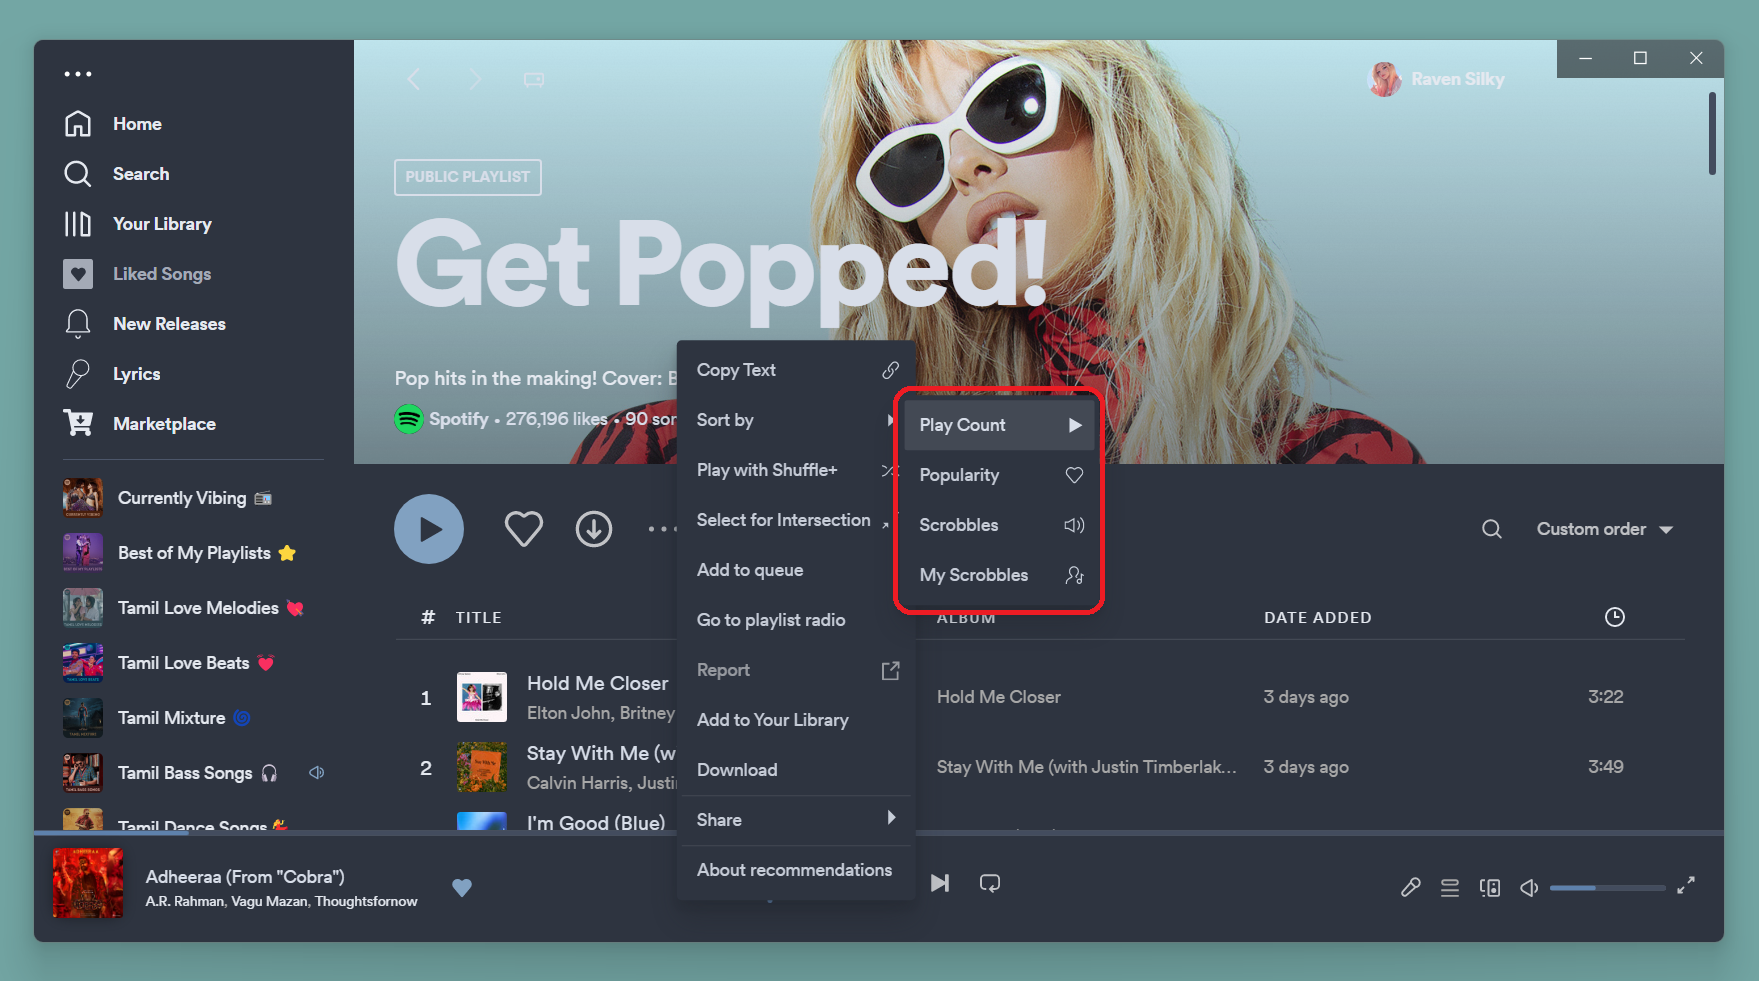
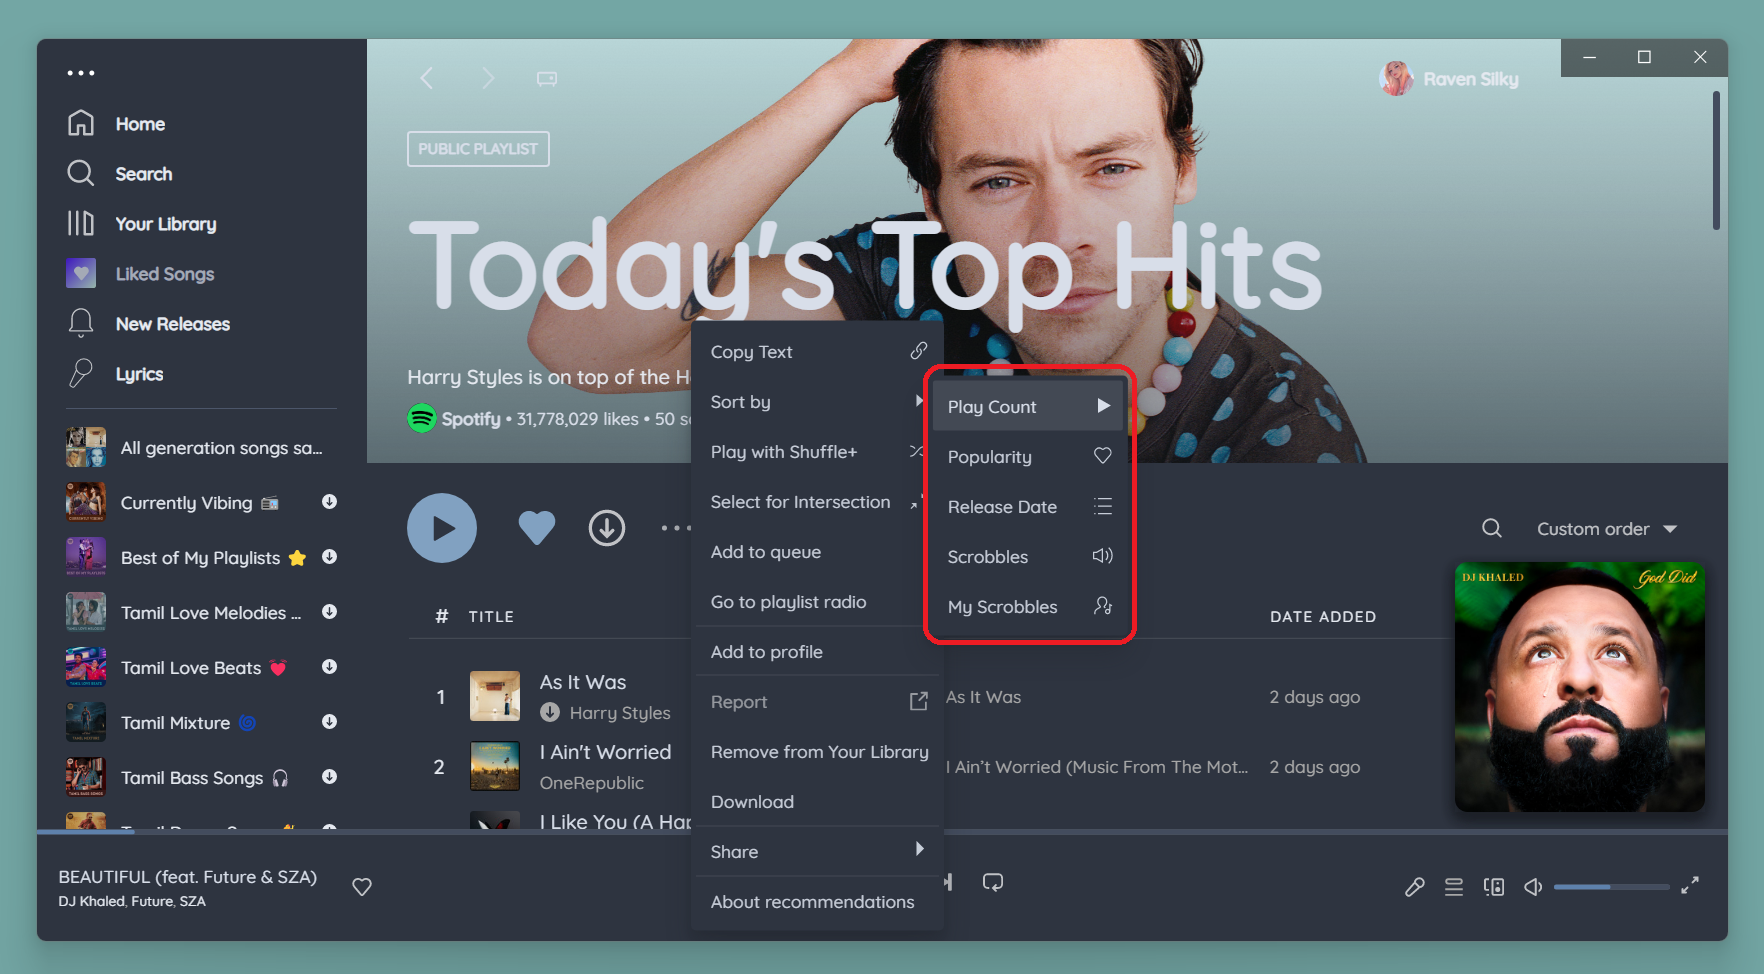
2.4

diff --git a/Sort-by-Play-count/sortByPlayCount.js b/Sort-by-Play-count/sortByPlayCount.js
@@ -3,7 +3,7 @@
 // NAME: Sort By Play Count
 // AUTHOR: Tetrax-10
 // DESCRIPTION: Sorts Songs by Play Count, Popularity, Global Scrobbles, Personal Scrobbles Using Spotify and Last.FM
-// Version: 2.3
+// Version: 2.4
 
 /// <reference path="../globals.d.ts" />
 
@@ -438,6 +438,17 @@ async function initSortByPlay() {
         return false;
     }
 
+    // Release date
+    function shouldAddSpotifyReleaseDate(uri) {
+        let uriObj = Spicetify.URI.fromString(uri[0]);
+        switch (uriObj.type) {
+            case Type.PLAYLIST:
+            case Type.PLAYLIST_V2:
+                return true;
+        }
+        return false;
+    }
+
     // Scrobbles
     function shouldAddLastFmScrobbles(uri) {
         let uriObj = Spicetify.URI.fromString(uri[0]);
@@ -520,6 +531,18 @@ async function initSortByPlay() {
         "heart"
     );
 
+    let releaseDateItemSpotify = new Spicetify.ContextMenu.Item(
+        "Release Date",
+        async (rawUri) => {
+            let uriInfo = rawUri[0].split(":");
+            let type = uriInfo[1];
+            let uri = uriInfo[2];
+            await fetchAndPlay(type, uri, "releaseDate", "spotify");
+        },
+        shouldAddSpotifyReleaseDate,
+        "list-view"
+    );
+
     let scrobblesItemLastFM = new Spicetify.ContextMenu.Item(
         "Scrobbles",
         async (rawUri) => {
@@ -561,16 +584,16 @@ async function initSortByPlay() {
         "subtitles"
     );
 
-    new Spicetify.ContextMenu.SubMenu("Sort by", [playCountItemSpotify, popularityItemSpotify, scrobblesItemLastFM, personalScrobblesItemLastFM, playCountItemLastFM], shouldAddContextMenu, false).register();
+    new Spicetify.ContextMenu.SubMenu("Sort by", [playCountItemSpotify, popularityItemSpotify, releaseDateItemSpotify, scrobblesItemLastFM, personalScrobblesItemLastFM, playCountItemLastFM], shouldAddContextMenu, false).register();
 
     async function fetchPlaylistTracksSpotify(uri, mode) {
-        let playlistRes = await Spicetify.Platform.PlaylistAPI.getContents(`spotify:playlist:${uri}`);
+        let playlistRes = await Spicetify.CosmosAsync.get(`sp://core-playlist/v1/playlist/spotify:playlist:${uri}/rows`);
 
         let trackHistory = [];
         let allTracks = [];
         let filteredTrack = [];
 
-        let totalTrackCount = playlistRes.items.length ? playlistRes.items.length : 0;
+        let totalTrackCount = playlistRes.rows.length ? playlistRes.rows.length : 0;
 
         if (totalTrackCount == 0) {
             Spicetify.showNotification(`${mode == "playcount" ? "Play Count" : mode} data not available! Try other options`);
@@ -583,22 +606,28 @@ async function initSortByPlay() {
             mode = "playcount";
         }
 
-        for (let playlistTrack of playlistRes.items) {
-            currentTrack++;
-            Spicetify.showNotification(`${currentTrack} / ${totalTrackCount} Songs`);
-            if (playlistTrack.type == "track" && playlistTrack.isPlayable && !playlistTrack.isLocal && !trackHistory.includes(playlistTrack.album.uri)) {
-                let albumRes = await Spicetify.CosmosAsync.get(`wg://album/v1/album-app/album/${playlistTrack.album.uri.split(":")[2]}/desktop`);
-                for (let tracks of albumRes.discs) {
-                    for (let track of tracks.tracks) {
-                        allTracks.push(track);
-                        trackHistory.push(playlistTrack.album.uri);
+        for (let playlistTrack of playlistRes.rows) {
+            if (mode != "popularity") {
+                currentTrack++;
+                Spicetify.showNotification(`${currentTrack} / ${totalTrackCount} Songs`);
+                if (playlistTrack.link.split(":")[1] == "track" && playlistTrack.playable && !playlistTrack.isLocal && !trackHistory.includes(playlistTrack.album.link)) {
+                    let albumRes = await Spicetify.CosmosAsync.get(`wg://album/v1/album-app/album/${playlistTrack.album.link.split(":")[2]}/desktop`);
+                    for (let tracks of albumRes.discs) {
+                        for (let track of tracks.tracks) {
+                            allTracks.push(track);
+                            trackHistory.push(playlistTrack.album.link);
+                        }
                     }
                 }
-            }
 
-            for (let track of allTracks) {
-                if (playlistTrack.uri == track.uri && track[mode]) {
-                    filteredTrack.push({ playCount: track.playcount, popularity: track.popularity, link: track.uri, name: track.name, artist: track.artists[0].name });
+                for (let track of allTracks) {
+                    if (playlistTrack.link == track.uri && track[mode]) {
+                        filteredTrack.push({ playCount: track.playcount, popularity: track.popularity, link: track.uri, name: track.name, artist: track.artists[0].name });
+                    }
+                }
+            } else {
+                if (playlistTrack.link.split(":")[1] == "track" && !playlistTrack.isLocal && playlistTrack.playable && playlistTrack.popularity) {
+                    filteredTrack.push({ popularity: playlistTrack.popularity, link: playlistTrack.link, name: playlistTrack.name, artist: playlistTrack.artists[0].name });
                 }
             }
         }
@@ -609,6 +638,44 @@ async function initSortByPlay() {
         }
 
         return filteredTrack;
+    }
+
+    async function fetchPlaylistTracksSpotifyAPI(uri) {
+        let playlistRes = await Spicetify.CosmosAsync.get(`sp://core-playlist/v1/playlist/spotify:playlist:${uri}/rows`);
+
+        let idString = "";
+        let count = 0;
+        for (let track of playlistRes.rows) {
+            let info = track.link.split(":");
+            if (track.playable && !track.isLocal && info[1] == "track") {
+                if (count) {
+                    idString += ",";
+                }
+                idString += info[2];
+                count++;
+                if (count == 50) {
+                    idString += "|";
+                    count = 0;
+                }
+            }
+        }
+
+        let requestArray = idString ? idString.split("|") : [];
+
+        let resRawArray = [];
+
+        for (let apiString of requestArray) {
+            if (apiString.length) {
+                let rawRes = await Spicetify.CosmosAsync.get(`https://api.spotify.com/v1/tracks?ids=${apiString}`);
+                for (let track of rawRes.tracks) {
+                    if (track.album.release_date) {
+                        resRawArray.push({ releaseDate: track.album.release_date, link: track.uri, name: track.name, artist: track.artists[0].name });
+                    }
+                }
+            }
+        }
+
+        return resRawArray;
     }
 
     let artistFetchTypeCount = { album: 0, single: 0 };
@@ -699,7 +766,6 @@ async function initSortByPlay() {
     }
 
     async function fetchArtistLikedTracksSpotify(uri, mode) {
-        // go here
         let artistRes = await Spicetify.CosmosAsync.get(`sp://core-collection/unstable/@/list/tracks/artist/${uri}?responseFormat=protobufJson`);
 
         let trackHistory = [];
@@ -720,22 +786,30 @@ async function initSortByPlay() {
         }
 
         for (let artistTrack of artistRes.item) {
-            currentTrack++;
-            Spicetify.showNotification(`${currentTrack} / ${totalTrackCount} Songs`);
-            let artistTrackMetaData = artistTrack.trackMetadata;
-            if (artistTrackMetaData.playable && !artistTrackMetaData.isLocal && !trackHistory.includes(artistTrackMetaData.album.link)) {
-                let albumRes = await Spicetify.CosmosAsync.get(`wg://album/v1/album-app/album/${artistTrackMetaData.album.link.split(":")[2]}/desktop`);
-                for (let tracks of albumRes.discs) {
-                    for (let track of tracks.tracks) {
-                        allTracks.push(track);
-                        trackHistory.push(artistTrackMetaData.album.link);
+            // goto
+            if (mode != "popularity") {
+                currentTrack++;
+                Spicetify.showNotification(`${currentTrack} / ${totalTrackCount} Songs`);
+                let artistTrackMetaData = artistTrack.trackMetadata;
+                if (artistTrackMetaData.playable && !artistTrackMetaData.isLocal && !trackHistory.includes(artistTrackMetaData.album.link)) {
+                    let albumRes = await Spicetify.CosmosAsync.get(`wg://album/v1/album-app/album/${artistTrackMetaData.album.link.split(":")[2]}/desktop`);
+                    for (let tracks of albumRes.discs) {
+                        for (let track of tracks.tracks) {
+                            allTracks.push(track);
+                            trackHistory.push(artistTrackMetaData.album.link);
+                        }
                     }
                 }
-            }
 
-            for (let track of allTracks) {
-                if (artistTrackMetaData.link == track.uri && track[mode]) {
-                    filteredTrack.push({ playCount: track.playcount, popularity: track.popularity, link: track.uri, name: track.name, artist: track.artists[0].name });
+                for (let track of allTracks) {
+                    if (artistTrackMetaData.link == track.uri && track[mode]) {
+                        filteredTrack.push({ playCount: track.playcount, popularity: track.popularity, link: track.uri, name: track.name, artist: track.artists[0].name });
+                    }
+                }
+            } else {
+                let playlistTrack = artistTrack.trackMetadata;
+                if (playlistTrack.link.split(":")[1] == "track" && !playlistTrack.isLocal && playlistTrack.playable && playlistTrack.popularity) {
+                    filteredTrack.push({ popularity: playlistTrack.popularity, link: playlistTrack.link, name: playlistTrack.name, artist: playlistTrack.artist[0].name });
                 }
             }
         }
@@ -922,13 +996,19 @@ async function initSortByPlay() {
     }
 
     async function sortByPlayForQueue(unsortedArray, mode) {
-        let sortedArray = await unsortedArray.filter((item) => item).sort((item1, item2) => item2[mode] - item1[mode]);
+        let sortedArray;
+
+        if (mode == "releaseDate") {
+            sortedArray = await unsortedArray.sort((track1, track2) => (track1.releaseDate < track2.releaseDate ? 1 : -1));
+        } else {
+            sortedArray = await unsortedArray.filter((track) => track).sort((track1, track2) => track2[mode] - track1[mode]);
+        }
 
         if (CONFIG.ascending) {
             sortedArray.reverse();
         }
 
-        // console.log(mode, sortedArray); // enable to see what you gonna hear
+        // console.log(mode, await sortedArray); // enable to see what you gonna hear
 
         sortedArray.push({ link: "spotify:delimiter" });
         sortedArray = sortedArray.map((item) => ({
@@ -939,10 +1019,10 @@ async function initSortByPlay() {
             },
         }));
 
-        return sortedArray;
+        return await sortedArray;
     }
 
-    async function Queue(sortedArray, context, type) {
+    async function Queue(sortedArray, context, type, mode) {
         let count = sortedArray.length - 1;
         if (count == 0) {
             return;
@@ -968,6 +1048,11 @@ async function initSortByPlay() {
         switch (type) {
             case Type.PLAYLIST:
             case Type.PLAYLIST_V2:
+                if (mode == "releaseDate") {
+                    let string = CONFIG.ascending ? "Oldest" : "Latest";
+                    Spicetify.showNotification(`${string} ${count} Songs`);
+                    break;
+                }
                 Spicetify.showNotification(`Sorted ${count} Songs`);
                 break;
 
@@ -1006,6 +1091,10 @@ async function initSortByPlay() {
             switch (type + platform) {
                 case Type.PLAYLIST + "spotify":
                 case Type.PLAYLIST_V2 + "spotify":
+                    if (mode == "releaseDate") {
+                        list = await fetchPlaylistTracksSpotifyAPI(uri, mode);
+                        break;
+                    }
                     list = await fetchPlaylistTracksSpotify(uri, mode);
                     break;
                 case Type.PLAYLIST + "lastfm":
@@ -1037,7 +1126,7 @@ async function initSortByPlay() {
 
             let sortedSongs = await sortByPlayForQueue(list, mode);
 
-            await Queue(await sortedSongs, `spotify:${type}:${uri}`, type);
+            await Queue(await sortedSongs, `spotify:${type}:${uri}`, type, mode);
         } catch (error) {
             Spicetify.showNotification(`${error}`);
             console.log(error);

diff --git a/Sort-by-Play-count/README.md b/Sort-by-Play-count/README.md
@@ -2,23 +2,23 @@
 
 <br />
 
-
 Sort Playlists, All songs of a Artist, Albums by :
 
 ![Screenshot](https://raw.githubusercontent.com/Tetrax-10/Spicetify-Extensions/master/Sort-by-Play-count/screenshot.png)
 
-* Play Count (Spotify's Playcount)
+-   Play Count (Spotify's Playcount)
 
-* Popularity (Spotify's Popularity) (Trending)
+-   Popularity (Spotify's Popularity) (Trending)
 
-* Scrobbles - How many times every single listener has listened to that song (Last.FM)
+-   Release Date (Latest and Oldest Supported)
 
-* Personal Scrobbles - How many times you have listened to that song (Last.FM with Login)
+-   Scrobbles - How many times every single listener has listened to that song (Last.FM)
 
-* Play Count (lastFM's Playcount)
+-   Personal Scrobbles - How many times you have listened to that song (Last.FM with Login)
+
+-   Play Count (lastFM's Playcount)
 
 ![Artist Demo](https://raw.githubusercontent.com/Tetrax-10/Spicetify-Extensions/master/Sort-by-Play-count/artist.gif)
-
 
 ![Options Menu](https://raw.githubusercontent.com/Tetrax-10/Spicetify-Extensions/master/Sort-by-Play-count/options.gif)
 
@@ -51,14 +51,16 @@ Step 3 : Search `Sort By Play Count` Click Install Buttton. Done!
 <br />
 
 ## Install Manually (Recommended)
+
 Copy `sortByPlayCount.js` into your [Spicetify](https://github.com/spicetify/spicetify-cli) extensions directory:
-| **Platform** | **Path**                                                                            |
+| **Platform** | **Path** |
 |------------|-----------------------------------------------------------------------------------|
-| **Linux**      | `~/.config/spicetify/Extensions` or `$XDG_CONFIG_HOME/.config/spicetify/Extensions/` |
-| **MacOS**      | `~/spicetify_data/Extensions` or `$SPICETIFY_CONFIG/Extensions`                      |
-| **Windows**    | `%appdata%\spicetify\Extensions`                                              |
+| **Linux** | `~/.config/spicetify/Extensions` or `$XDG_CONFIG_HOME/.config/spicetify/Extensions/` |
+| **MacOS** | `~/spicetify_data/Extensions` or `$SPICETIFY_CONFIG/Extensions` |
+| **Windows** | `%appdata%\spicetify\Extensions` |
 
 After putting the extension file into the correct folder, run the following command to install the extension:
+
 ```
 spicetify config extensions sortByPlayCount.js
 spicetify apply
@@ -67,9 +69,11 @@ spicetify apply
 <br />
 
 # Credits
+
 [@LucasBares](https://github.com/LucasBares) for Last.FM Register PopupModal
 
 ## Support
+
 🌟 Like it? Gimme Some Love ! 💕
 
 [![Github Stars badge](https://img.shields.io/github/stars/Tetrax-10/Spicetify-Extensions?logo=github&style=social)](https://github.com/Tetrax-10/Spicetify-Extensions)
